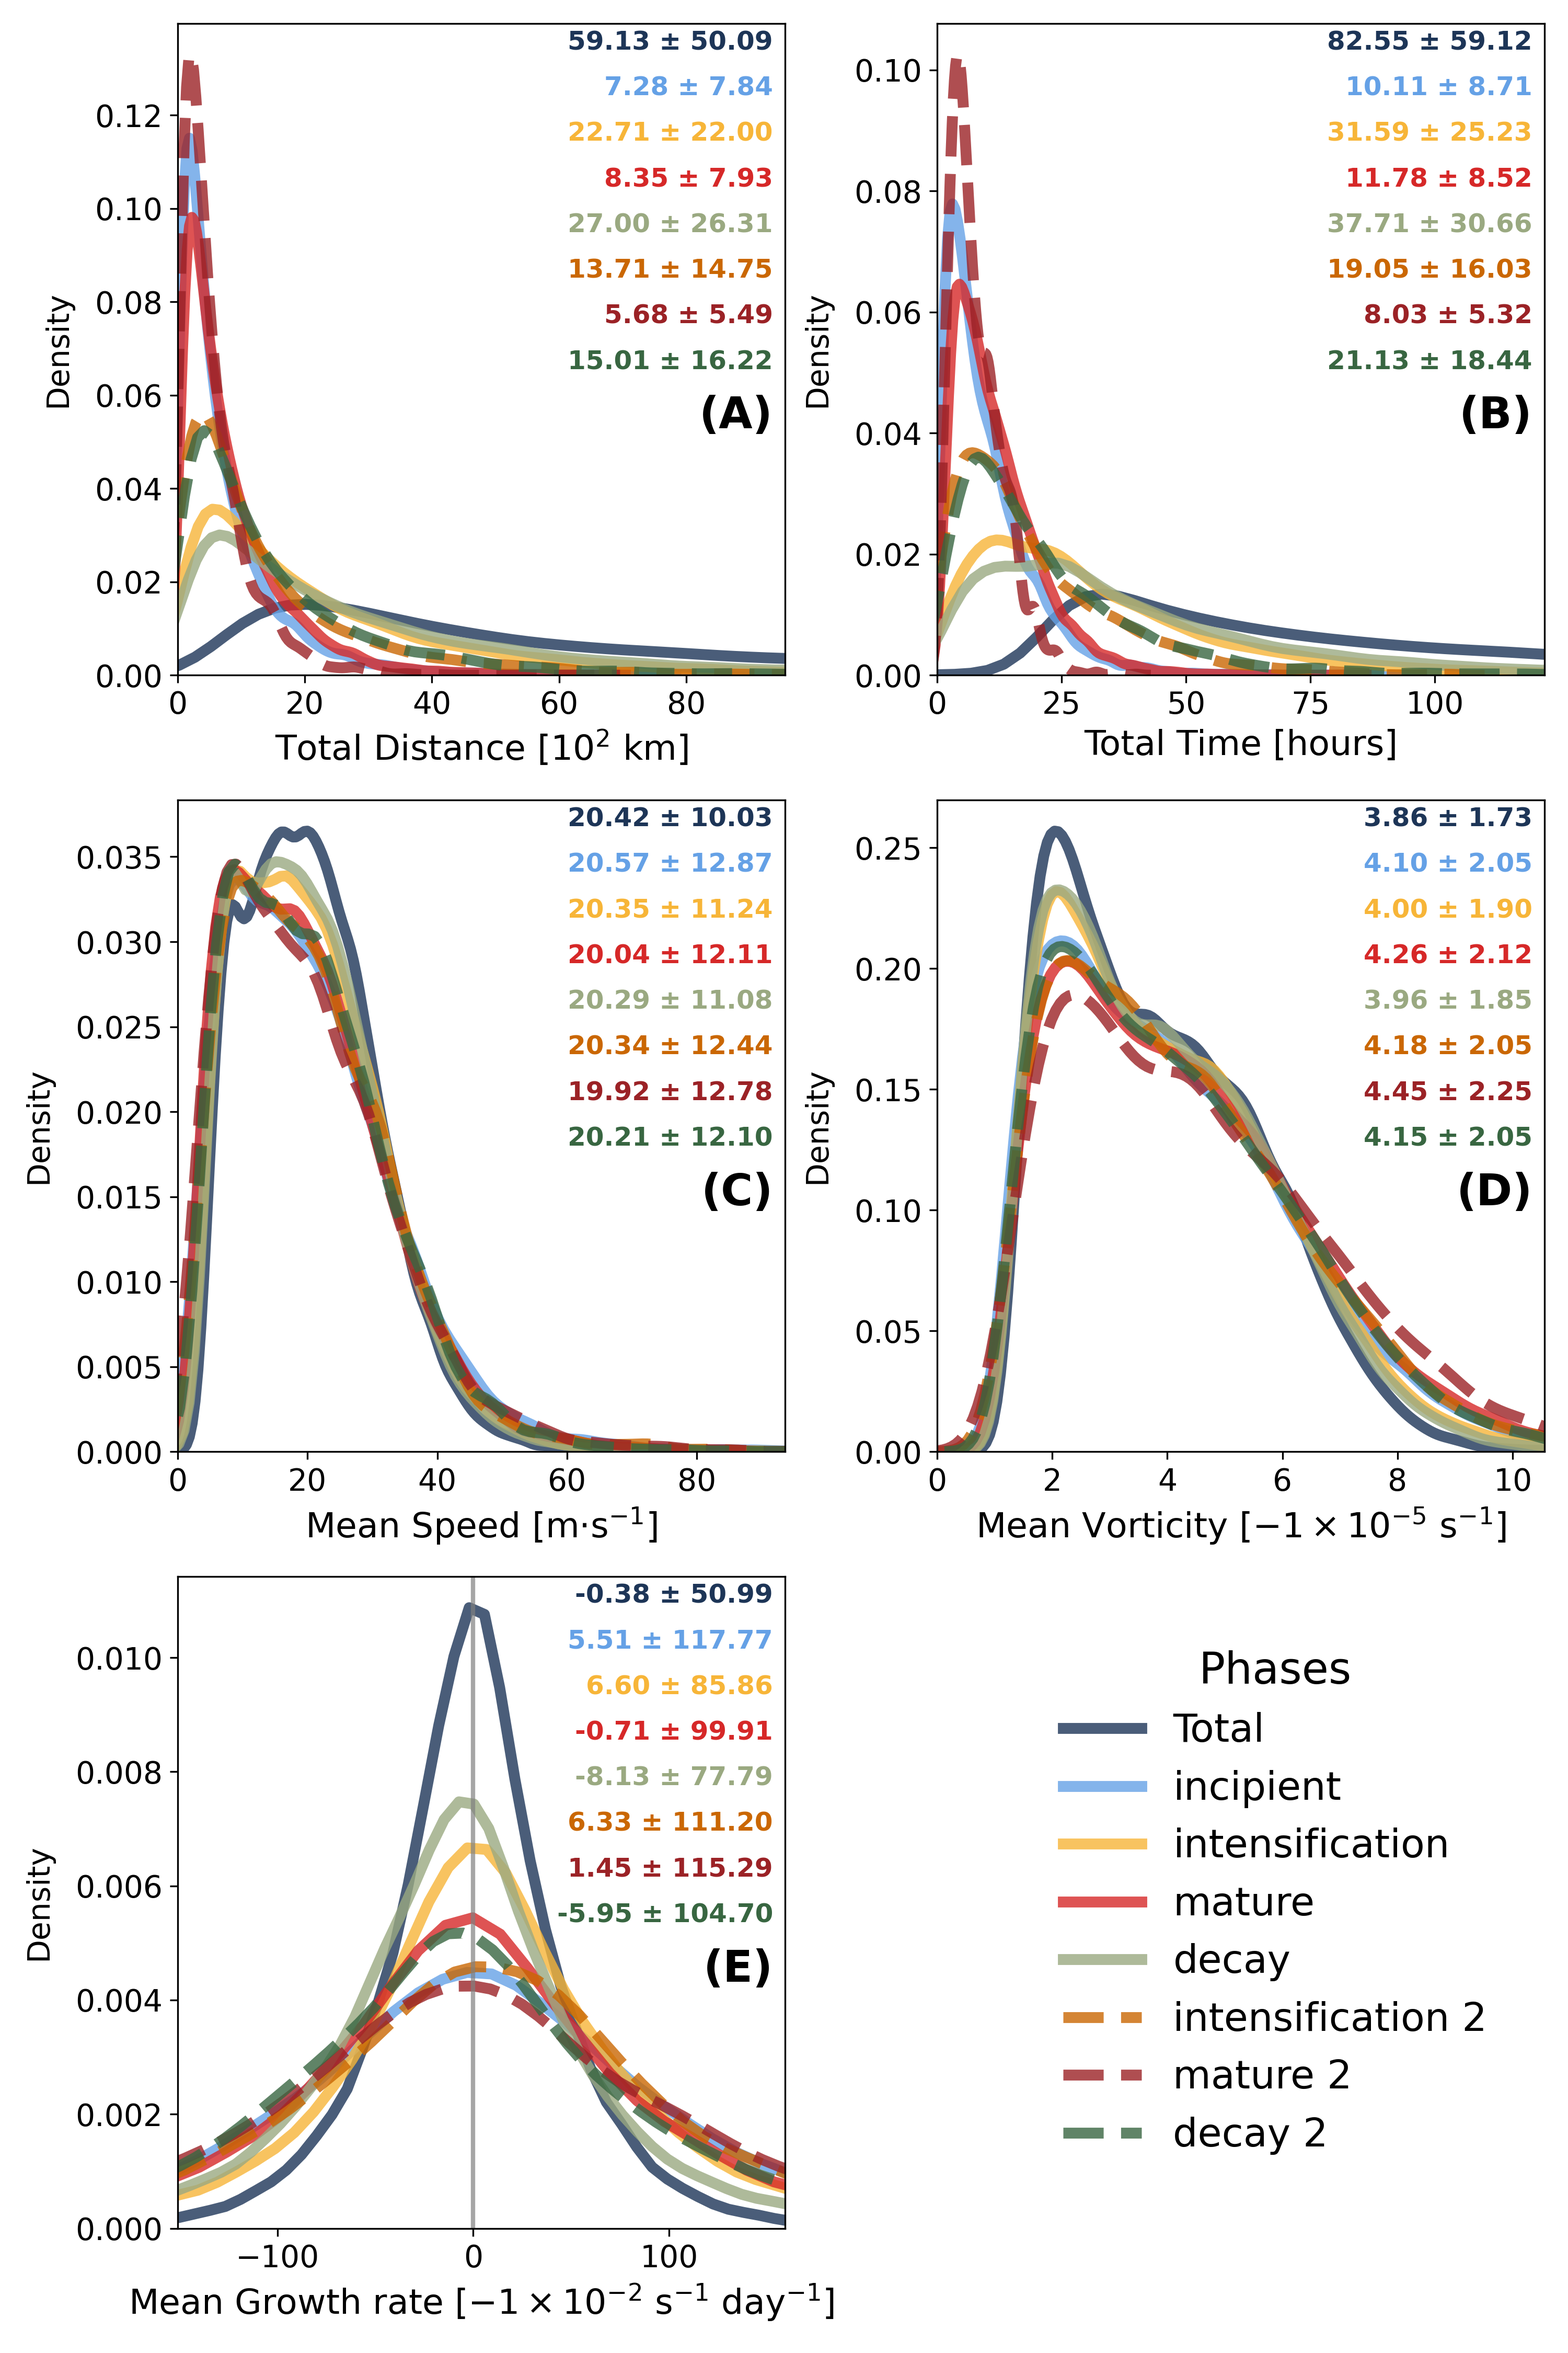
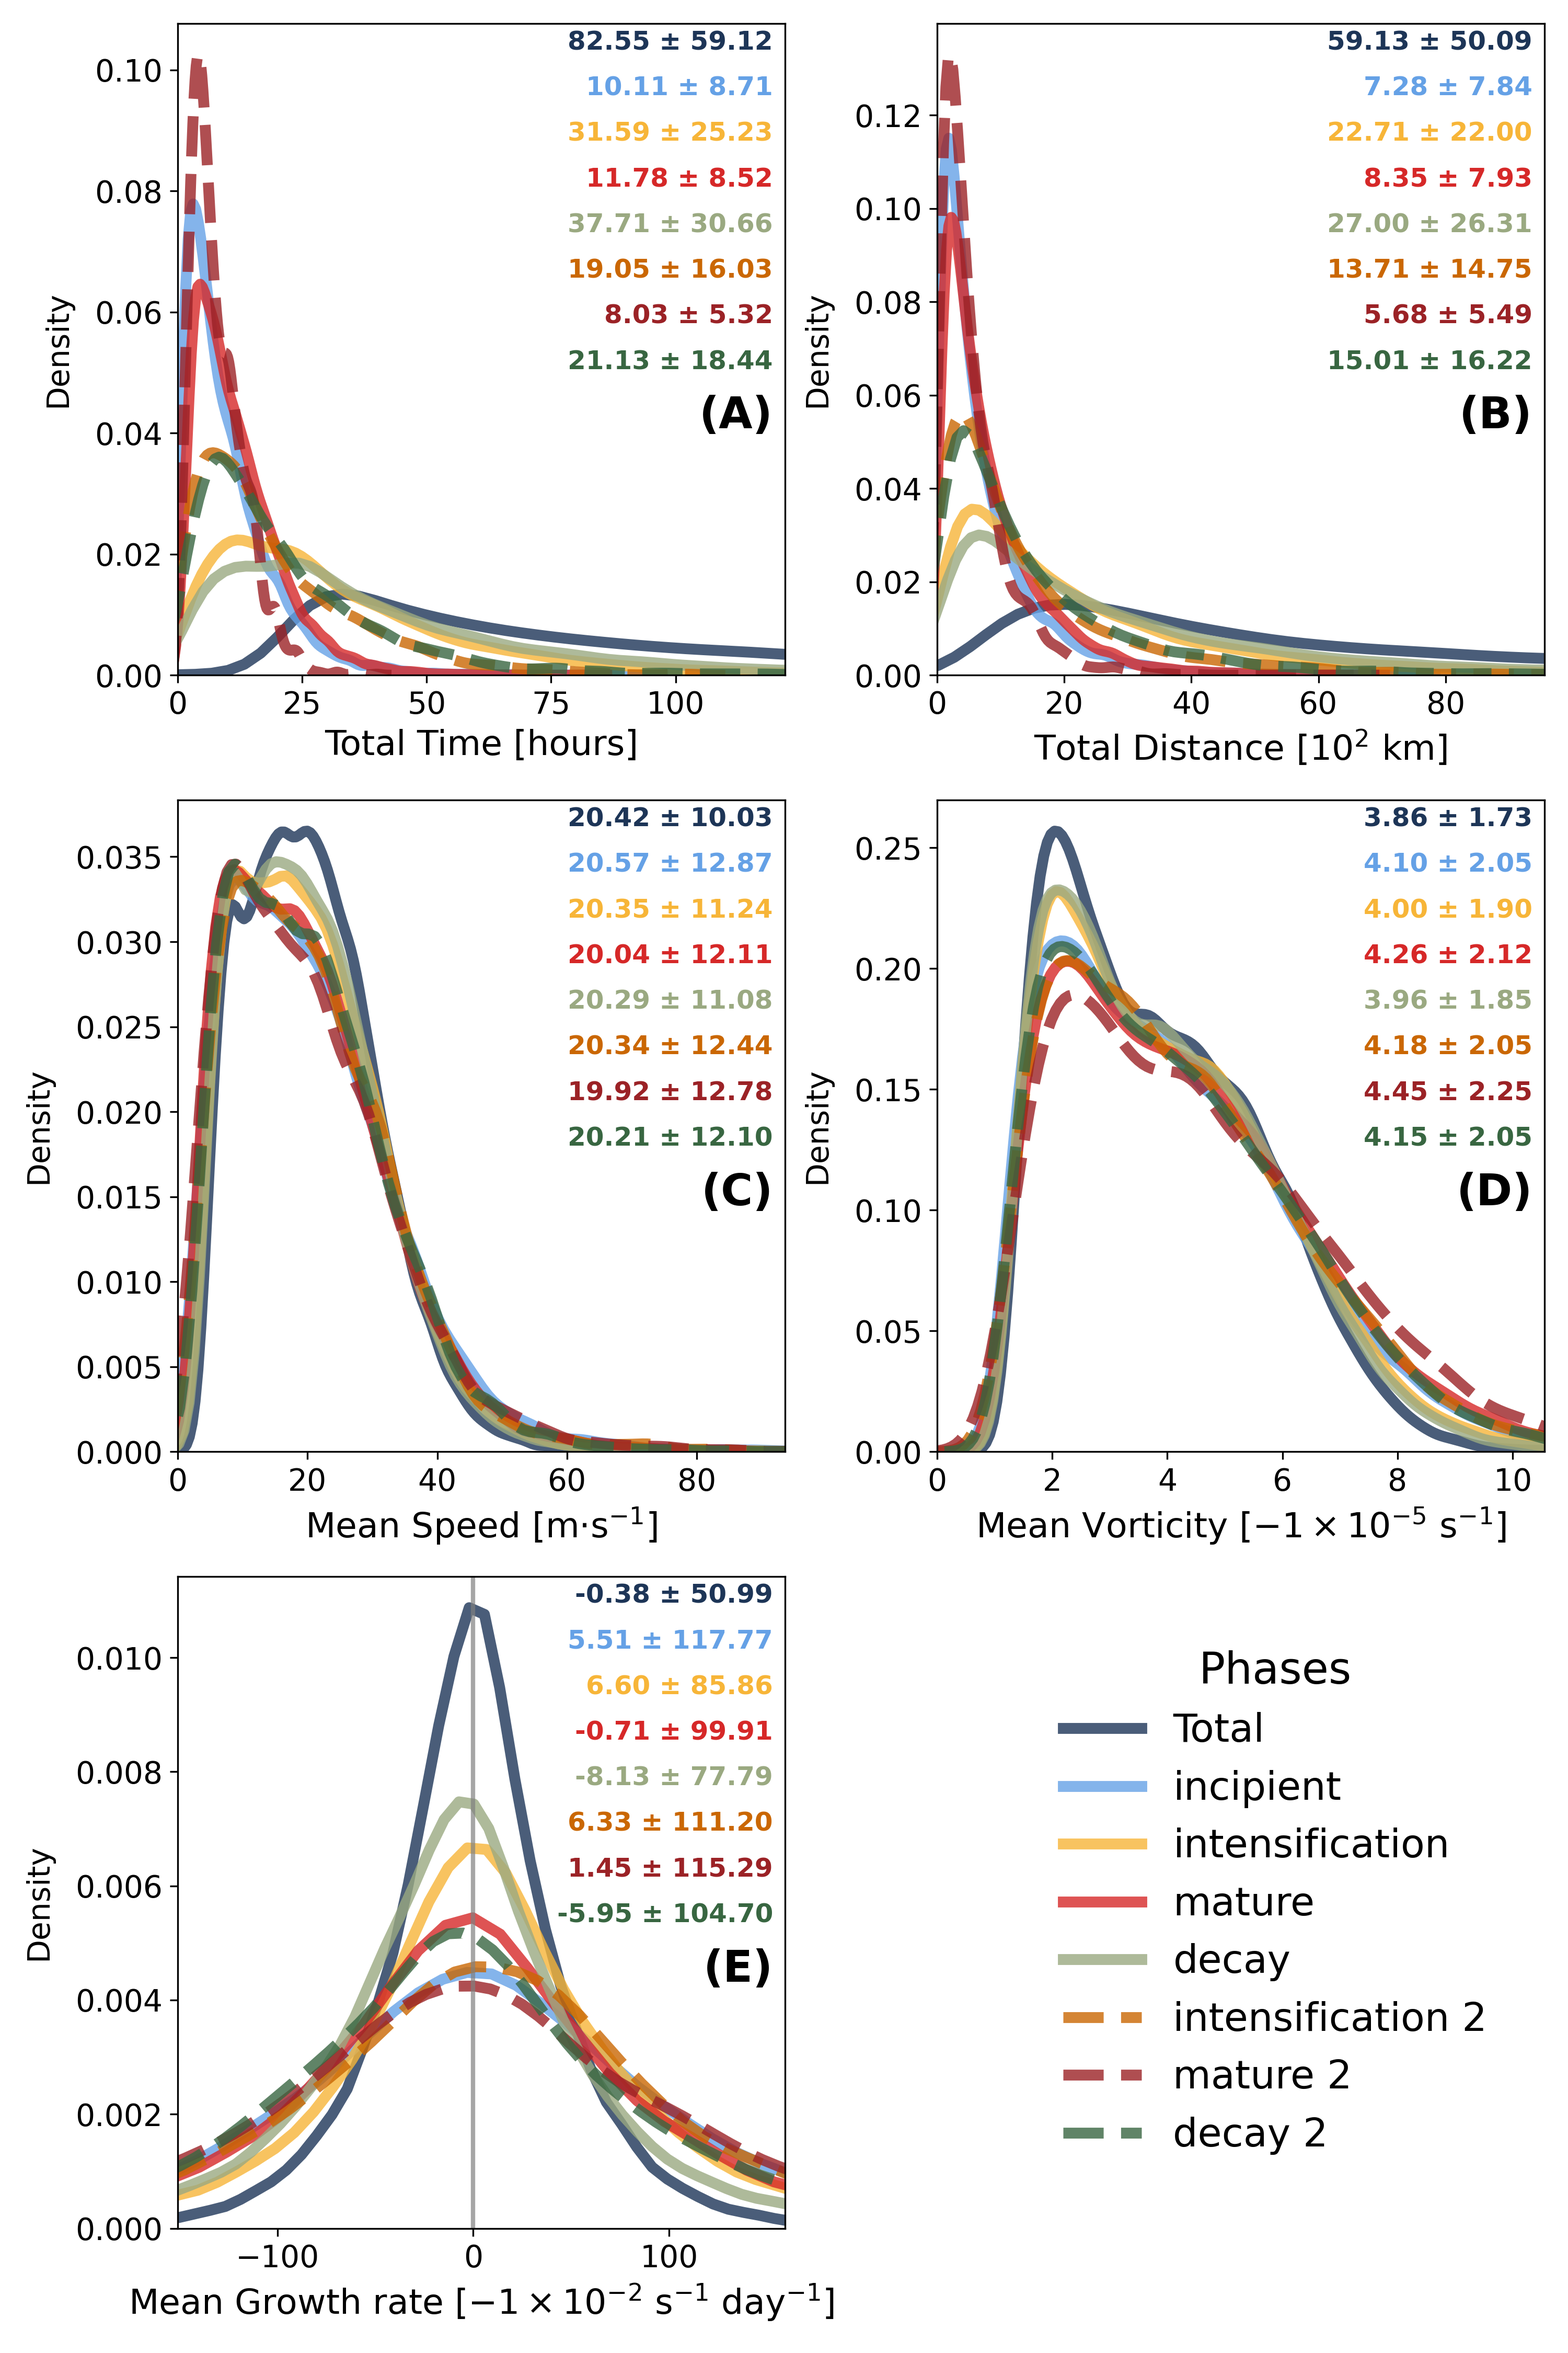
updated  stage order

diff --git a/src_manuscript_life-cycle/histograms.py b/src_manuscript_life-cycle/histograms.py
@@ -6,7 +6,7 @@
 #    By: daniloceano <daniloceano@student.42.fr>    +#+  +:+       +#+         #
 #                                                 +#+#+#+#+#+   +#+            #
 #    Created: 2023/10/30 19:37:18 by daniloceano       #+#    #+#              #
-#    Updated: 2023/11/06 22:17:19 by daniloceano      ###   ########.fr        #
+#    Updated: 2023/11/06 22:38:18 by daniloceano      ###   ########.fr        #
 #                                                                              #
 # **************************************************************************** #
 
@@ -22,7 +22,7 @@ from scipy.stats import levene, ttest_ind, mannwhitneyu, anderson, ks_2samp
 SECONDS_IN_AN_HOUR = 3600
 ALPHA = 0.05  # Significance level
 ANALYSIS_TYPE = '70W-no-continental'
-METRICS = ['Total Distance ($10^2$ km)', 'Total Time (Hours)', 'Mean Speed (m/s)',
+METRICS = ['Total Time (Hours)', 'Total Distance ($10^2$ km)', 'Mean Speed (m/s)',
             'Mean Vorticity (−1 × 10−5 s−1)', 'Mean Growth rate (−1 × 10^−2 s−1 day-1)']
 PHASES = ['Total', 'incipient', 'intensification', 'mature', 'decay', 'intensification 2', 'mature 2', 'decay 2', 'residual']
 REGIONS = ['Total', 'ARG', 'LA-PLATA', 'SE-BR', 'SE-SAO', 'AT-PEN', 'WEDDELL', 'SA-NAM']
@@ -480,15 +480,15 @@ def main():
     database = get_database()
     total_season_data = database[database['Season'] == 'Total']
     
-    jja_data = database[database['Season'] == 'JJA']
-    djf_data = database[database['Season'] == 'DJF']
-    plot_histograms_with_kde(jja_data, djf_data)
+    # jja_data = database[database['Season'] == 'JJA']
+    # djf_data = database[database['Season'] == 'DJF']
+    # plot_histograms_with_kde(jja_data, djf_data)
     
-    compare_phases_by_region(database)
+    # compare_phases_by_region(database)
 
     compare_phases_for_total_region(total_season_data)
 
-    create_statistics_table(database)
+    # create_statistics_table(database)
 
 if __name__ == '__main__':
     main()
